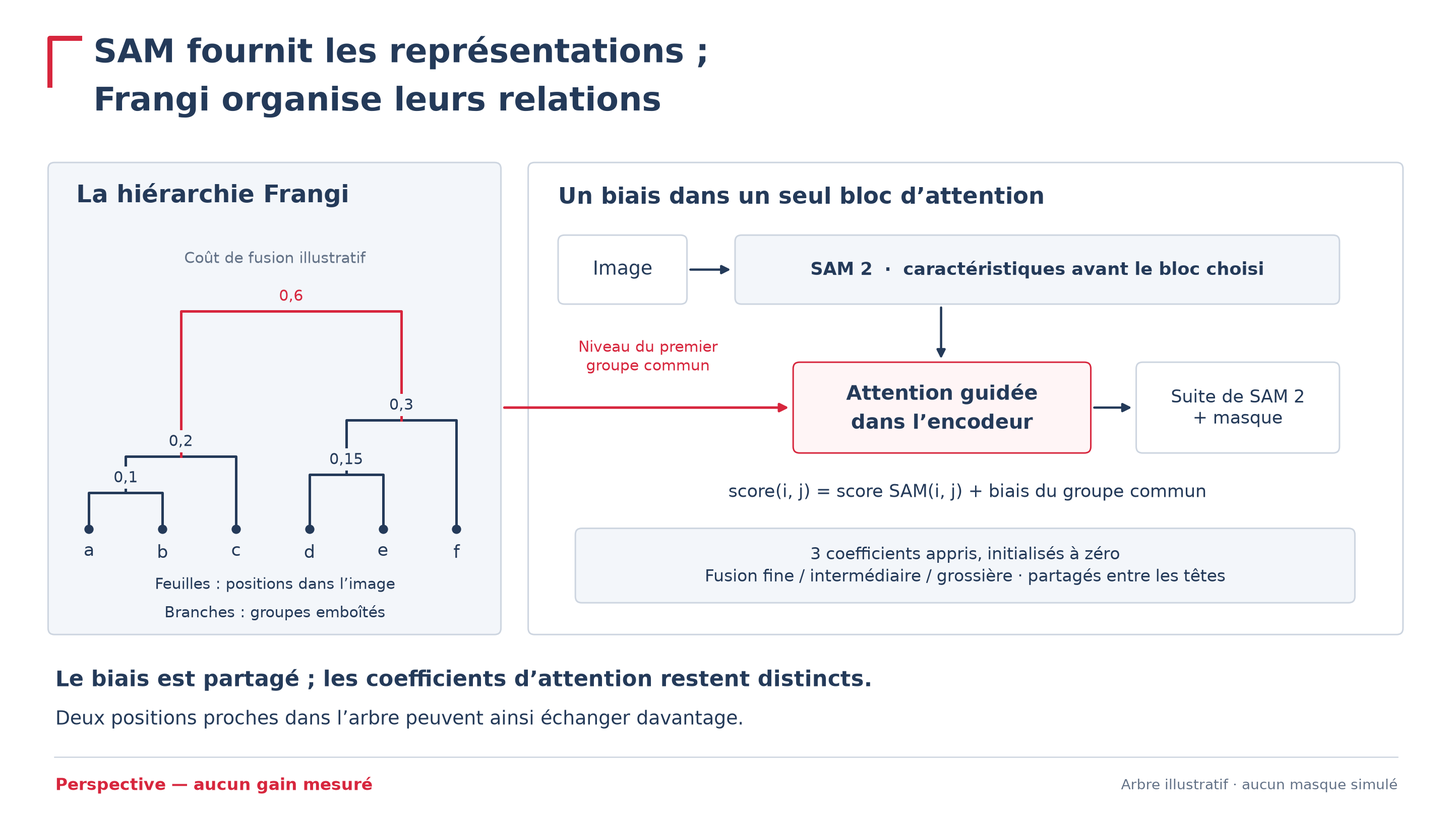
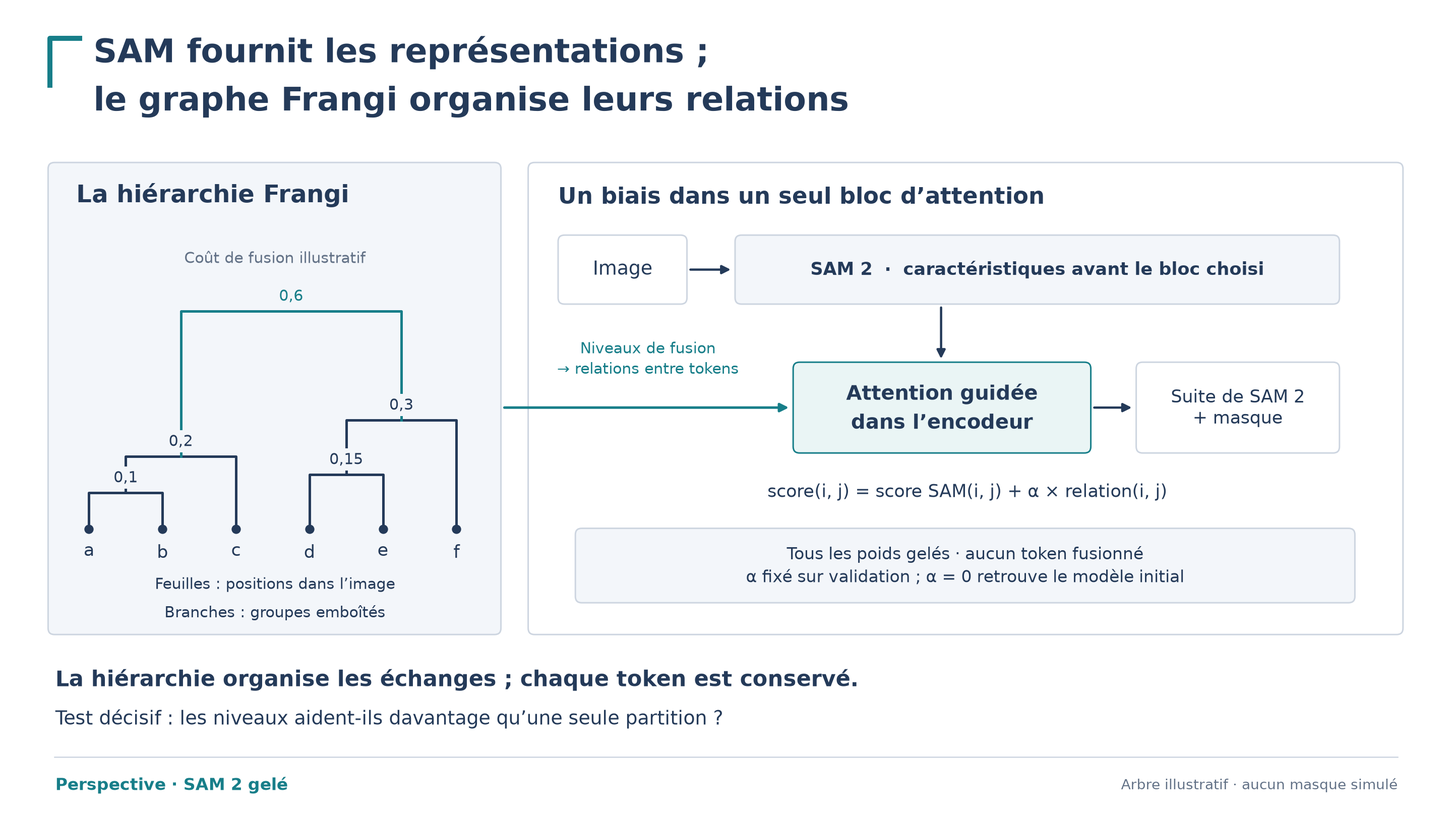
Étaye le guidage hiérarchique de SAM gelé et son lien avec la soutenance

diff --git a/ISPRS/CrackSAM-HierarchicalSelfAttention/figures/make_figure.py b/ISPRS/CrackSAM-HierarchicalSelfAttention/figures/make_figure.py
@@ -6,8 +6,8 @@ import matplotlib.pyplot as plt
 from matplotlib.patches import FancyArrowPatch, FancyBboxPatch
 
 OUT = Path(__file__).resolve().parent
-NAVY, RED, GRAY = "#243A59", "#D7263D", "#627186"
-PALE, PINK, LINE = "#F3F6FA", "#FFF5F6", "#CDD5E0"
+NAVY, ACCENT, GRAY = "#243A59", "#177E89", "#627186"
+PALE, TINT, LINE = "#F3F6FA", "#EAF5F5", "#CDD5E0"
 plt.rcParams.update({"font.family": "DejaVu Sans", "svg.fonttype": "none",
                      "svg.hashsalt": "frangi-hierarchy-perspective"})
 fig, ax = plt.subplots(figsize=(16, 9), dpi=180)
@@ -21,7 +21,7 @@ def text(x, y, s, size=15, color=NAVY, weight="normal", ha="center", **kw):
             ha=ha, va="center", linespacing=1.35, **kw)
 
 
-def box(x, y, w, h, s="", fill="white", edge=LINE, size=15, bold=False):
+def box(x, y, w, h, s="", fill="none", edge=LINE, size=15, bold=False):
     ax.add_patch(FancyBboxPatch((x, y), w, h, linewidth=1.2,
         boxstyle="round,pad=0.02,rounding_size=0.07", edgecolor=edge, facecolor=fill))
     text(x + w / 2, y + h / 2, s, size=size, weight="bold" if bold else "normal")
@@ -32,10 +32,10 @@ def arrow(a, b, color=NAVY, lw=1.8):
                                color=color, linewidth=lw))
 
 
-# Editorial heading matches the navy/red palette of the thesis presentation.
-ax.plot([.55, .55, .88], [8.06, 8.58, 8.58], color=RED, lw=4)
+# Navy and teal keep the perspective distinct without red blocks.
+ax.plot([.55, .55, .88], [8.06, 8.58, 8.58], color=ACCENT, lw=4)
 text(1.03, 8.42, "SAM fournit les représentations ;", 26, weight="bold", ha="left")
-text(1.03, 7.88, "Frangi organise leurs relations", 26, weight="bold", ha="left")
+text(1.03, 7.88, "le graphe Frangi organise leurs relations", 26, weight="bold", ha="left")
 
 box(.55, 2.03, 4.95, 5.16, fill=PALE)
 box(5.84, 2.03, 9.60, 5.16)
@@ -53,7 +53,7 @@ for node_id, (left, right, cost) in enumerate(merges, start=6):
     xl, yl = nodes[left]
     xr, yr = nodes[right]
     height = base + scale * cost
-    c = RED if cost == .60 else NAVY
+    c = ACCENT if cost == .60 else NAVY
     ax.plot([xl, xl, xr, xr], [yl, height, height, yr], color=c, lw=2)
     nodes[node_id] = ((xl + xr) / 2, height)
     text((xl + xr) / 2, height + .17, f"{cost:g}".replace(".", ","), 12, c,
@@ -71,32 +71,31 @@ arrow((7.58, 6.03), (8.08, 6.03))
 box(8.12, 5.67, 6.62, .72,
     "SAM 2  ·  caractéristiques avant le bloc choisi", size=14, fill=PALE, bold=True)
 arrow((10.37, 5.64), (10.37, 5.02))
-box(8.76, 4.03, 3.24, .96, "Attention guidée\ndans l’encodeur", fill=PINK, edge=RED,
+box(8.76, 4.03, 3.24, .96, "Attention guidée\ndans l’encodeur", fill=TINT, edge=ACCENT,
     size=16, bold=True)
 arrow((12.03, 4.51), (12.50, 4.51))
 box(12.54, 4.03, 2.20, .96, "Suite de SAM 2\n+ masque", size=14)
 
 # Explicit relation, not a point prompt: first shared group of each pair.
-arrow((5.53, 4.51), (8.72, 4.51), color=RED, lw=2)
-text(7.14, 5.06, "Niveau du premier\ngroupe commun", 12, RED,
-     bbox={"facecolor": "white", "edgecolor": "none", "pad": 2})
-text(10.66, 3.58, "score(i, j) = score SAM(i, j) + biais du groupe commun",
+arrow((5.53, 4.51), (8.72, 4.51), color=ACCENT, lw=2)
+text(7.14, 5.06, "Niveaux de fusion\n→ relations entre tokens", 12, ACCENT)
+text(10.66, 3.58, "score(i, j) = score SAM(i, j) + α × relation(i, j)",
      14, color=NAVY)
 box(6.36, 2.38, 8.55, .78,
-    "3 coefficients appris, initialisés à zéro\nFusion fine / intermédiaire / grossière · partagés entre les têtes",
+    "Tous les poids gelés · aucun token fusionné\nα fixé sur validation ; α = 0 retrouve le modèle initial",
     fill=PALE, edge=LINE, size=13)
 
-text(.61, 1.51, "Le biais est partagé ; les coefficients d’attention restent distincts.",
+text(.61, 1.51, "La hiérarchie organise les échanges ; chaque token est conservé.",
      17, weight="bold", ha="left")
-text(.61, 1.08, "Deux positions proches dans l’arbre peuvent ainsi échanger davantage.",
+text(.61, 1.08, "Test décisif : les niveaux aident-ils davantage qu’une seule partition ?",
      15, ha="left")
 ax.plot([.6, 15.4], [.66, .66], color=LINE, lw=1)
-text(.61, .35, "Perspective — aucun gain mesuré", 13, RED, weight="bold", ha="left")
+text(.61, .35, "Perspective · SAM 2 gelé", 13, ACCENT, weight="bold", ha="left")
 text(15.4, .35, "Arbre illustratif · aucun masque simulé", 11, GRAY, ha="right")
 for suffix in ("svg", "png"):
     destination = OUT / f"guidage_hierarchique.{suffix}"
     metadata = {"Date": None} if suffix == "svg" else None
-    fig.savefig(destination, facecolor="white", dpi=180, metadata=metadata)
+    fig.savefig(destination, transparent=True, dpi=180, metadata=metadata)
     if suffix == "svg":
         destination.write_text("\n".join(line.rstrip() for line in
                                destination.read_text().splitlines()) + "\n")

diff --git a/ISPRS/CrackSAM-HierarchicalSelfAttention/PISTES_SANS_REENTRAINEMENT.md b/ISPRS/CrackSAM-HierarchicalSelfAttention/PISTES_SANS_REENTRAINEMENT.md
@@ -1,68 +1,95 @@
-# Hiérarchie Frangi et modèles gelés : pistes comparées
+# Hiérarchie Frangi et SAM 2 gelé : quelles pistes retenir ?
 
-Recherche vérifiée le **5 septembre 2026**. Contrainte : conserver les poids de
-SAM 2, y compris son adaptation aux fissures lorsqu'elle existe. Les mécanismes
-ci-dessous ont des précédents ; leur combinaison avec notre hiérarchie reste
-une perspective.
+**Verdict : commencer par guider une attention de SAM 2 avec les relations multi-échelles du graphe Frangi (A).** Cette intervention répond directement à « guider SAM 2 », conserve ses tokens et ses poids et permet un retour au modèle initial. Un petit lecteur hiérarchique entraîné sur ses caractéristiques gelées (B) constituerait ensuite un programme plus proche de l’« alphabet–grammaire » de la thèse. HSA et la compression des clés/valeurs restent des comparateurs.
 
-## 1. HSA : partager les coefficients selon l'arbre
+Il s’agit de propositions : **aucune n’est implémentée ou mesurée ici**. Les poids de SAM 2, y compris une adaptation préalable aux fissures, resteraient gelés. La lecture s’appuie sur EUVIP et la [soutenance figée au commit `8ddbae760c5a337c4e033c45e5f60c16ca58cc67`](https://github.com/Ludwig-H/Manuscrit-de-th-se/blob/8ddbae760c5a337c4e033c45e5f60c16ca58cc67/Soutenance/soutenance/Soutenance_These_2026-09-08_LouisHauseux.pdf). Les pages ci-dessous désignent les pages PDF, puis les numéros imprimés des diapositives.
 
-[Amizadeh et al., NeurIPS 2025](https://arxiv.org/html/2509.15448v1#S4.SS3)
-remplacent certaines attentions de RoBERTa sans réentraînement. L'arbre fourni
-détermine quels coefficients sont partagés entre sous-groupes ; les
-caractéristiques du modèle déterminent leurs valeurs. Aucun paramètre ajouté.
+## Ce que la hiérarchie doit transmettre
 
-**Rapport à Frangi :** fournir notre arbre de fusions. C'est la référence la plus
-directe pour le poster. Les expériences publiées portent sur un compromis
-coût–précision, avec des pertes de précision ; elles ne démontrent pas une
-amélioration de segmentation. Le théorème suppose notamment des requêtes/clés
-normalisées : sa garantie ne se transfère pas automatiquement à Hiera.
+La soutenance distingue **construire tous les regroupements** et **choisir une segmentation** : composantes aux différents seuils, single linkage et MST (p. 18–23, diapos 15–16), puis dendrogramme et distance de fusion (p. 110, diapo 99). L’intérêt recherché est de conserver plusieurs niveaux et leurs événements, sans décider immédiatement quelle échelle représente une fissure.
 
-## 2. Regrouper les tokens : une autre intervention interne
+Pour EUVIP, repartir des [dissimilarités publiées](../../EUVIP/LaTeX/main.tex), issues des compatibilités de courbure, de forme et d’orientation : `d_ij = min(1, ρ_ij(1 − S⁰_ij))`. Fixer les candidats, les arêtes et leurs coûts, **avant sélection de la plus grande composante et élagage par centralité**, puis construire la filtration. Ce choix exploite une étape antérieure au squelette final du papier ; il ne prétend pas que celui-ci conserve déjà toute cette information.
 
-Trois travaux apportent des éléments complémentaires :
+Ne pas confondre **hauteur de fusion**, **centralité dans le MST** et **échelle gaussienne σ du Hessien**. Un arbre spatial enraciné au sommet le plus central n’est pas le dendrogramme des fusions. Les ex æquo ne doivent pas créer artificiellement des fusions binaires ordonnées.
 
-- **[ATC, Haurum et al., ECCV 2024](https://arxiv.org/html/2409.11923v1)** :
-  classification hiérarchique ascendante des tokens, sans paramètres nouveaux.
-  Évaluations avec et sans fine-tuning, dont segmentation avec ViT-Adapter.
-- **[CubistMerge, Gong et Lis, prépublication, v2 de 2026](https://arxiv.org/html/2509.21764v2)** :
-  fusion spatiale préservant une grille 2D, effectivement évaluée sur SAM 2
-  sans entraînement supplémentaire (§4–4.1). Ses groupes restent contraints
-  par les lignes, colonnes et fenêtres.
-- **[StructSAM, Nguyen et al., 2026](https://arxiv.org/html/2603.07307v2)** :
-  fusion → attention → restitution de la grille dense, avec protection des
-  contours, sur SAM/MedSAM/EfficientSAM gelés. SAM 2 est seulement un comparateur.
-  Version courte au workshop AdaptFM@ICML ; ne pas citer comme ICML principal.
+En **K2**, les feuilles sont des arêtes. L’exemple de la soutenance regroupe `AB, BC, AC` et `DE, EF, DF`, avec `CD` séparément ; les supports partagent C et D (p. 27–31, diapos 20–24). Imposer un parent unique à chaque pixel effacerait ce recouvrement. Les objets hiérarchisés et leur projection vers l’image sont distincts. Enfin, les résultats de densité HGP dans leur cadre géométrique ne deviennent pas automatiquement des théorèmes sur les coûts Frangi.
 
-**Notre piste :** les groupes Frangi autoriseraient ou interdiraient certaines
-fusions. Garder séparés les tokens ambigus, les bifurcations et les détails fins.
-Plusieurs coupes emboîtées organiseraient progressivement les regroupements.
-Restituer la grille ne récupère pas l'information perdue par une fusion.
-Ces articles visent surtout l'accélération ; un bénéfice sur les fissures reste
-une question distincte. ATC signale aussi les difficultés du single linkage
-lorsque les fusions deviennent agressives.
+## A — Ajouter une relation multi-échelle à l’attention
 
-## 3. CASS : transférer des relations vers l'attention gelée
+### Une relation définie par tous les seuils
 
-[Kim et al., CVPR 2025](https://arxiv.org/html/2411.17150v3#S3.SS2)
-transfèrent la structure spectrale d'un graphe DINO vers l'attention finale de
-CLIP, sans entraînement. **Rapport à Frangi :** transmettre des relations du
-graphe à un modèle gelé a donc un précédent visuel. Remplacer ces relations par
-notre hiérarchie demanderait une définition nouvelle ; CASS ne réalise pas
-déjà un guidage hiérarchique de SAM 2.
+Dans une composante du graphe fixé, la première fusion de deux candidats vérifie :
 
-## Choix pour la suite
+$$
+u_{ij}=\max_{e\in\operatorname{chemin}_{\mathrm{MST}}(i,j)} d_e.
+$$
 
-Conserver **HSA comme référence du poster**. Explorer le **regroupement guidé**
-comme alternative pratique : un bloc global, fusions prudentes, puis comparaison
-à nombre de tokens égal avec un regroupement visuel et un arbre permuté.
-Pour revendiquer l'apport de la hiérarchie, comparer aussi plusieurs niveaux à
-une partition unique. L'arbre provient des seuils du MST avant élagage, pas de
-la profondeur d'un parcours arbitrairement enraciné.
+Pour la hiérarchie K1 des composantes, définir :
 
-Si un petit apprentissage séparé est acceptable,
-[GraphAdapter, Li et al., NeurIPS 2023](https://arxiv.org/abs/2309.13625)
-offre un autre précédent : entraîner des modules de graphe sur les
-représentations d'un modèle gelé. Notre transposition utiliserait les
-caractéristiques SAM 2 sauvegardées et un petit module parcourant l'arbre,
-sans rétropropagation dans SAM 2. Elle ne serait pas entièrement sans apprentissage.
+$$
+\kappa_{ij}=\int_0^1 \mathbf{1}[i,j\text{ dans la même composante au seuil }t]\,dt
+=1-u_{ij}.
+$$
+
+Deux candidats réunis tôt partagent davantage de seuils. Poser `κ_ii = 1` et `κ_ij = 0` entre composantes déconnectées, sans inventer de connexion physique. Le MST préserve ces regroupements ; κ ne conserve pas toutes ses incidences géométriques ni les événements K≥2.
+
+Le **noyau κ complet est positif semi-défini** : chaque matrice de coappartenance à une partition l’est, ainsi que leur moyenne. C’est le principe des [noyaux de partitions de Davies et Ghahramani, 2014](https://mlg.eng.cam.ac.uk/pub/pdf/DavGha14a.pdf), appliqué ici aux seuils de notre filtration. Les coûts bornés sont empiriques, pas des probabilités. L’intégrale uniforme exploite leurs hauteurs numériques mais reste un choix à valider. Une transformation croissante des coûts peut conserver les fusions tout en changeant κ.
+
+### Passer des candidats aux tokens
+
+Construire une matrice `P` à poids non négatifs reliant chaque token aux candidats qu’il couvre. Normaliser chaque ligne non vide à somme un ; laisser les lignes vides nulles. Puis calculer :
+
+$$
+\kappa_{\mathrm{tok}}=P\kappa P^\top.
+$$
+
+Un token peut recevoir plusieurs contributions géométriques. Cette projection reste un **résumé** : un patch traversé par deux branches peut les mélanger. Mesurer couverture, mélanges de groupes et dépendance à la résolution. La normalisation ne distingue pas, à elle seule, un patch presque vide d’un patch fortement couvert.
+
+Pour K2, une incidence pondérée entre arêtes et pixels respecterait mieux les recouvrements qu’une affectation exclusive. Elle ne préserverait pas automatiquement orientations, événements et géométrie complète. Le premier essai doit annoncer clairement **K1**, sans revendiquer déjà la grammaire K2 des diapos 104–107.
+
+### Une modification bornée et réversible
+
+À partir de `κ_tok`, construire `B` en neutralisant sa diagonale et les interactions non couvertes. **B n’est plus nécessairement positif semi-défini** ; cette propriété n’est pas requise pour modifier des logits d’attention :
+
+$$
+A'=\operatorname{softmax}_{\text{lignes}}(L+\alpha B),
+\qquad L=QK^\top/\sqrt{d_h}.
+$$
+
+Partager B et un unique `α` entre les têtes, tout en conservant leurs scores visuels distincts. Choisir `0 ≤ α ≤ α_max` dans un intervalle annoncé, sur validation, avec `α = 0` comme référence obligatoire. Aucun gradient : cela reste un réglage expérimental.
+
+Commencer dans un seul bloc global, par exemple l’indice 43 de [Hiera-L](https://github.com/facebookresearch/sam2/blob/2b90b9f5ceec907a1c18123530e92e794ad901a4/sam2/configs/sam2/sam2_hiera_l.yaml), sans supprimer tokens, projections, résidus, MLP ou informations de position. Conserver prompts et décodeur identiques. **Hors graphe, le logit ajouté est nul, mais les probabilités peuvent changer par renormalisation** lorsqu’une requête reçoit d’autres corrections. Une matrice B partagée de 4096² éléments FP16 représente environ 32 Mio ; temps et mémoire supplémentaires dépendent aussi du backend d’attention et restent à mesurer.
+
+### Le précédent utile, et sa limite
+
+[CASS, CVPR 2025, §3.2](https://arxiv.org/html/2411.17150v3#S3.SS2), transfère une structure relationnelle issue de DINO vers CLIP sans entraînement : graphe construit avec les clés, correspondance spectrale entre têtes, puis transfert de composantes spectrales. Il établit un précédent de **transfert de relations vers une attention visuelle gelée**, sans traiter une hiérarchie visuelle externe ni SAM 2. Nous ne reprenons ni son `KKᵀ` comme définition Frangi, ni les suppressions de résidu/FFN propres à sa configuration CLIP. Le biais fondé sur κ est notre hypothèse à évaluer.
+
+## Trois objections à A, et les expériences décisives
+
+1. **Une liaison fausse devient transitive.** Une arête trop favorable peut rapprocher deux structures entières. Les grandes composantes peuvent aussi attirer beaucoup de masse d’attention. Mesurer faux raccords, ruptures et détails fins, en complément de l’IoU.
+2. **La projection peut détruire la distinction recherchée.** Des branches distinctes peuvent occuper le même patch. Rapporter les ambiguïtés et comparer sur un support de candidats identique ; davantage de pixels couverts ne prouverait pas l’utilité de l’arbre.
+3. **Le modèle n’a pas appris à interpréter ce signal.** En monomodal, Frangi réorganise une observation déjà accessible à SAM ; une observation supplémentaire peut venir du multimodal. Ni complémentarité ni bon placement du biais ne sont acquis. Si `α = 0` gagne, conserver ce résultat.
+
+Contrôler chaque explication : bonus uniforme sur le **masque plat de candidats** ; **adjacence locale** ; **partition unique** ; arbre construit sur les caractéristiques visuelles ou la proximité spatiale ; puis hiérarchie Frangi complète. Comparer les hauteurs originales à des hauteurs canoniques conservant seulement la topologie, ainsi que des associations feuilles–arbre permutées. Pour les niveaux permutés, préserver la monotonie parent–enfant : une permutation naïve ne définit plus une filtration valide.
+
+Ces tests prolongent les témoins de la p. 118, diapo 107 : graphe latéral, arbre aléatoire, niveaux permutés, topologie seule et trajectoires complètes. Conserver mêmes images, prompts, budget de calcul et budget de recherche de `α`, puis évaluer sur un test séparé. Compter construction du graphe, projection, mémoire et temps total ; aucune accélération n’est acquise.
+
+## B — Apprendre une petite grammaire sur des représentations gelées
+
+[Superpoint Transformer, ICCV 2023](https://openaccess.thecvf.com/content/ICCV2023/papers/Robert_Efficient_3D_Semantic_Segmentation_with_Superpoint_Transformer_ICCV_2023_paper.pdf), utilise une véritable hiérarchie géométrique externe et des voisinages à plusieurs niveaux. Son module est **entraîné** pour la segmentation 3D. Ses partitions initiales limitent les frontières restituables ; sa compacité ne garantit pas celle d’une transposition à nos images.
+
+Notre adaptation mettrait en cache les caractéristiques de SAM 2, sans graphe de gradients. Un petit lecteur apprendrait les échanges entre éléments Frangi, groupes et ensembles, avec orientations, niveaux et événements ; une voie fine conserverait les caractéristiques détaillées pour produire le masque. Aucun gradient ne traverserait SAM. Cette piste concrétise davantage l’« alphabet–grammaire » des diapos 58–59 et 104–107. [GraphAdapter, NeurIPS 2023](https://arxiv.org/abs/2309.13625), est un précédent plus général : des convolutions apprises sur des graphes de connaissances entre classes, sans cette hiérarchie géométrique.
+
+**Trois objections :** il faut des annotations et entraîner un nouveau module ; une sortie indépendante constitue un lecteur sur SAM, pas un guidage de ses attentions ; des groupes erronés et une projection grossière peuvent encore limiter les détails. Comparer le même lecteur avec caractéristiques seules, graphe local et véritable hiérarchie. Un gain dû au module supplémentaire ne validerait pas la grammaire.
+
+## HSA et compression : des comparateurs
+
+[HSA, NeurIPS 2025, §§3.2 et 5.3](https://proceedings.neurips.cc/paper_files/paper/2025/file/0480adaf62a918405a5e3b1031e0c056-Paper-Conference.pdf), partage des coefficients entre sous-arbres frères. Il conserve les feuilles mais peut supprimer leurs différences d’interaction ; il ne renforce pas automatiquement les bonnes connexions. Les remplacements sans entraînement concernent RoBERTa : au tableau 3, l’exactitude passe de 95,58 à 94,94 % sur IMDB, mais de 92,67 à 50,72 % sur QNLI. La normalisation Q/K et le traitement de la diagonale de sa preuve ne correspondent pas directement à SAM 2. Les hauteurs Frangi ne sont pas automatiquement utilisées. C’est un comparateur de contrainte hiérarchique, avec ces écarts explicités.
+
+[ATC, ECCV 2024](https://www.ecva.net/papers/eccv_2024/papers_ECCV/papers/07441.pdf), construit des regroupements hiérarchiques mais exploite une coupe ; [CubistMerge, prépublication, v2 de 2026](https://arxiv.org/pdf/2509.21764v2), évalue effectivement des fusions sur SAM 2 gelé. Les regroupements de ce dernier suivent toutefois une grille, peu adaptée aux branches irrégulières de Frangi. Ces précédents visent d’abord le coût.
+
+[StructSAM, v2 de 2026](https://arxiv.org/pdf/2603.07307v2), propose fusion → attention → restitution, avec un résidu dense préservé. Les différences entrantes subsistent, mais les membres d’un groupe partagent leur mise à jour d’attention. Ses évaluations portent sur SAM, MedSAM et EfficientSAM ; SAM 2 est un comparateur. Il protège les contours sans fournir de hiérarchie métier. Sa version courte relève du workshop AdaptFM@ICML, pas de la conférence principale. Pour les fissures, **appartenir à une même branche ne signifie pas posséder des caractéristiques interchangeables** : extrémités, jonctions et changements de matériau peuvent demander des échanges distincts.
+
+Une variante prudente conserverait toutes les requêtes et le résidu dense, mais résumerait les clés/valeurs par groupes disjoints, avec la correction de masse `log(taille)` également utilisée par [ToMe, ICLR 2023](https://arxiv.org/abs/2210.09461). Elle serait exacte pour des clés identiques dans chaque groupe, approximative sinon. Une coupe ne testerait pas toute la hiérarchie ; mélanger parents et enfants compterait certains éléments plusieurs fois. Pour garder plusieurs niveaux, il faudrait des coupes emboîtées ou une couverture de l’arbre adaptée à chaque requête. A conserve aussi les clés/valeurs individuelles et évite cette approximation.
+
+**Priorité : A pour tester le guidage ; B pour développer la grammaire.** Les contrôles devront montrer ce qu’apportent relations et niveaux au-delà du seul détecteur Frangi.

diff --git a/ISPRS/CrackSAM-HierarchicalSelfAttention/README.md b/ISPRS/CrackSAM-HierarchicalSelfAttention/README.md
@@ -1,62 +1,33 @@
-# Donner à SAM 2 la hiérarchie du graphe de Frangi
+# Guider SAM 2 avec les relations de la hiérarchie Frangi
 
-**Perspective de recherche pour la soutenance — aucun gain de segmentation démontré.**
+**Perspective : conserver SAM 2 gelé et tester une organisation explicite de ses échanges.** La [comparaison des pistes](PISTES_SANS_REENTRAINEMENT.md) explique le choix au regard du papier EUVIP, de la soutenance et des articles vérifiés le 5 septembre 2026.
 
-SAM possède déjà de riches représentations visuelles. Notre proposition est de lui transmettre **quels morceaux se regroupent, et à quel niveau**, pour moduler leurs échanges dans l’attention.
+## Le choix pour EUVIP
 
-Lire d’abord les [résultats négatifs et les recherches associées](RECHERCHES.md), puis les [formulations pour la soutenance](SOUTENANCE.md).
+Conserver chaque token et ses caractéristiques. Utiliser la hiérarchie pour indiquer **à quel niveau deux régions se réunissent**, puis moduler leur attention. Cette expérience ne suppose pas que Frangi segmente mieux que SAM. En monomodal, la hiérarchie organise des observations déjà disponibles ; une modalité supplémentaire peut aussi apporter une observation nouvelle.
 
-Pour la contrainte **sans réentraînement de SAM 2**, consulter les
-[pistes comparées](PISTES_SANS_REENTRAINEMENT.md) : HSA, regroupement hiérarchique
-de tokens et transfert de relations. Le montage à trois coefficients ci-dessous
-reste une variante avec apprentissage limité.
+![Principe du guidage](figures/guidage_hierarchique.png)
 
-![Principe du guidage hiérarchique](figures/guidage_hierarchique.png)
+## Du graphe à une relation entre régions
 
-## Ce que nous voulons ajouter
+Reprendre les dissimilarités `d_ij` du papier. Sur un graphe fixé, avant sélection de la plus grande composante et élagage par centralité, faire varier le seuil des arêtes. Les composantes fusionnent : on conserve ces événements et leurs niveaux. Le MST de chaque composante suffit à les retrouver.
 
-Une carte de gradient ou de Frangi décrit chaque emplacement. Une hiérarchie décrit les relations entre emplacements : deux morceaux peuvent appartenir au même petit groupe, à deux sous-groupes d’un même ensemble, ou à des ensembles distincts.
+Dans une même composante, `u_ij` est le plus grand coût sur le chemin du MST entre deux sommets. La relation `κ_ij = 1 − u_ij` mesure la fraction des seuils de `[0,1]` auxquels ils appartiennent au même groupe ; elle vaut zéro entre composantes séparées. Elle exploite toute la filtration. La profondeur d’un parcours et les échelles gaussiennes ne définissent pas cette hiérarchie.
 
-Cette organisation est précisément ce que les essais GeoLoRA n’ont pas transmis. En monomodal, elle reste calculée à partir de la même image : nous proposons une **organisation explicite du calcul**, sans prétendre apporter une observation supplémentaire ni une vérité sur les fissures.
+## Un premier essai sans apprentissage
 
-## Construire la bonne hiérarchie
-
-Commencer avec le graphe ordinaire, **K = 1**, et ses dissimilarités Frangi. Fixer une fois les pixels candidats, les arêtes et leurs poids. Sur chaque composante, conserver l’arbre couvrant minimum **avant l’élagage final par centralité**.
-
-Faire ensuite varier le seuil des coûts d’arêtes : les petits groupes fusionnent progressivement. Enregistrer ces fusions donne un dendrogramme, c’est-à-dire un arbre de groupes emboîtés. C’est le lien classique entre arbre couvrant et Single-Linkage, déjà présent dans le fil de la thèse. Les fusions de même coût sont simultanées ; aucune racine de parcours arbitraire ne définit les niveaux.
-
-Pour deux feuilles, leur niveau de réunion est le plus grand coût sur le chemin qui les relie dans l’arbre. **La centralité est un score ; elle n’est pas cette hiérarchie.** Les composantes séparées restent séparées. L’extension triangle-connexe viendra ensuite, avec sa propre définition des feuilles et des fusions.
-
-## La transmettre directement à l’attention
-
-Pour deux positions d’image représentées par les jetons `i` et `j`, noter `r(i,j)` le niveau de leur premier groupe commun. Ajouter au score visuel un coefficient appris dépendant de ce niveau :
+Reporter ces relations sur les tokens, puis ajouter un biais borné au score visuel :
 
 $$
-\operatorname{Attention}_T(Q,K,V)
-=\operatorname{softmax}_j\!\left(
-\frac{q_i^\top k_j}{\sqrt d}+b_{r(i,j)}
-\right)V.
+A' = \operatorname{softmax}(QK^\top/\sqrt{d_h} + \alpha B).
 $$
 
-**Version minimale : trois classes de niveaux de fusion, trois coefficients appris**, partagés entre les têtes d’un seul bloc. Les seuils de ces classes sont fixés sur l’entraînement/validation. L’arbre complet est conservé ; cette première interface en donne une lecture simplifiée.
+`B` est la relation projetée, avec diagonale neutralisée. Les poids de SAM et de son adaptation aux fissures restent gelés ; `α` est choisi sur validation, avec `α = 0` comme référence. Un bloc global de Hiera-L, par exemple le bloc 43, permet une intervention initiale sans modifier la grille. La projection des candidats vers les tokens et les faux raccordements du graphe sont les principaux risques.
 
-Les coefficients commencent à zéro : on retrouve alors le modèle de référence. Chaque paire conserve son propre score visuel, même lorsqu’elle partage un biais avec d’autres. Le modèle peut apprendre à renforcer, atténuer ou ignorer la relation proposée.
+[CASS, CVPR 2025](https://arxiv.org/html/2411.17150v3) fournit un précédent de transfert de relations vers une attention visuelle gelée. **La hiérarchie Frangi dans SAM 2 est notre proposition**, pas un résultat de cet article. Comparer impérativement au même support de candidats, à une partition unique, au graphe local et à des arbres témoins.
 
-### Un premier montage concret
+## La suite vers la soutenance
 
-- Garder les poids de SAM 2 **et de son adaptation aux fissures existante** gelés ; apprendre seulement les trois coefficients, avec la même perte et les mêmes entrées que la référence.
-- Intervenir dans le dernier bloc d’attention globale de Hiera-L : `trunk.blocks[43].attn` dans la configuration vérifiée. Pour une entrée 1024², il traite une grille 64².
-- Reporter les groupes sur cette grille avec exactement les mêmes transformations spatiales que l’image. Un jeton reçoit l’appartenance d’un représentant Frangi ; s’il mélange des branches incompatibles, le déclarer ambigu.
-- Mettre le biais à zéro sur la diagonale et pour toute paire impliquant un jeton ambigu, hors graphe ou une autre composante. Le contexte visuel reste accessible.
+Un petit lecteur hiérarchique inspiré de [Superpoint Transformer, ICCV 2023](https://arxiv.org/abs/2306.08045), entraîné sur les caractéristiques SAM sauvegardées, prolongerait davantage l’idée « alphabet–grammaire ». Il demanderait un apprentissage nouveau, sans rétropropagation dans SAM.
 
-Il faut exporter l’arbre depuis l’extracteur actuel, qui rend surtout des cartes, puis modifier l’attention et utiliser un parcours d’entraînement différentiable. Le prédicteur interactif standard désactive les gradients. **Trois paramètres ne signifient pas un calcul gratuit** : le biais dense partagé occupe déjà 32 Mio en FP16 à 4096 jetons, hors gradients et autres tenseurs. Ce montage reste à implémenter.
-
-## Le test qui rendrait l’idée convaincante
-
-Comparer la référence, une seule partition, la hiérarchie Frangi, un arbre spatial sur les mêmes feuilles et le même arbre Frangi aux feuilles permutées. Pour les variantes structurées, conserver architecture, table de coefficients et budget. Permuter uniquement l’association arbre–positions au sein de chaque composante, en conservant couverture et ambiguïtés ; l’image reste fixe.
-
-Mesurer sur les mêmes images l’IoU, la continuité et les faux raccordements, avec plusieurs graines, des intervalles sur les écarts appariés et un test séparé par scène. Un gain face à la partition et aux arbres témoins soutiendrait l’apport des regroupements emboîtés. Un gain face à SAM seul ne suffirait pas.
-
-Les points faibles sont identifiés : mauvais raccordements du graphe, branches absentes, perte de détails sur la grille des jetons. La hiérarchie propose des relations ; elle ne garantit pas leur justesse.
-
-Le [schéma vectoriel](figures/guidage_hierarchique.svg) se régénère avec `python figures/make_figure.py` depuis ce dossier (Matplotlib). L’ancien dossier reste consultable dans [l’historique Git](https://github.com/Ludwig-H/Generalized-Frangi-for-Automatic-Crack-Extraction-on-FIND-dataset/tree/e1dcec669b8ec216733c37335f7a57e0176967e5/ISPRS/CrackSAM-HierarchicalSelfAttention).
+Les [formulations pour la soutenance](SOUTENANCE.md) résument cette distinction. Les [résultats négatifs](RECHERCHES.md) restent documentés. Le montage est à implémenter ; aucun gain n’a été mesuré. Le schéma vectoriel se régénère avec `python figures/make_figure.py` depuis ce dossier.

diff --git a/ISPRS/CrackSAM-HierarchicalSelfAttention/SOUTENANCE.md b/ISPRS/CrackSAM-HierarchicalSelfAttention/SOUTENANCE.md
@@ -1,43 +1,34 @@
-# Une perspective en deux diapositives
+# Perspective : donner une organisation aux représentations de SAM
 
-## 1 — SAM voit déjà les détails ; donnons-lui leur organisation
+## Une diapositive pour EUVIP
 
-**À afficher**
+**Titre : « Perspective — guider SAM gelé par une hiérarchie de relations »**
 
-- Nos essais : ajouter des cartes de Frangi, d’orientation et de dérivées n’apporte pas de gain convaincant.
-- Une autre information explicite : quels morceaux appartiennent aux mêmes groupes, du détail à l’ensemble.
-- La hiérarchie du graphe peut guider les échanges entre les représentations visuelles de SAM 2.
+![Principe du guidage](figures/guidage_hierarchique.png)
 
-**À dire — environ 40 secondes**
+À afficher :
 
-> Nos premiers essais suggèrent que rajouter des descripteurs visuels n’est pas la bonne voie. SAM dispose déjà de représentations très riches. Ce que nous proposons maintenant, c’est de lui donner une organisation : quels morceaux se regroupent, et à quel niveau. L’arbre couvrant du graphe Frangi permet de retrouver cette succession de regroupements. Nous passons ainsi d’une description locale de l’image à une structure qui peut organiser les échanges dans le modèle.
+- SAM fournit les représentations visuelles.
+- Le graphe Frangi fournit les groupes et leurs niveaux de fusion.
+- Ces relations modulent l’attention ; chaque token est conservé.
+- Premier test : aucun apprentissage, un seul bloc modifié.
 
-Cette diapositive prolonge la page PDF **64** (numéro affiché **55**). Pour rester défendable, remplacer « SAM a déjà tout vu » par **« Dans nos essais, les descripteurs ajoutés n’apportent pas de gain convaincant »**. Réserver les limites du protocole aux questions du jury ; elles sont documentées dans [RECHERCHES.md](RECHERCHES.md).
+À dire, environ 40 secondes :
 
-## 2 — La hiérarchie module l’attention
+> Notre graphe ne doit pas produire un meilleur masque que SAM pour être utile. Nous proposons d’exploiter la succession de ses regroupements : quels fragments se réunissent tôt, lesquels seulement plus tard. Cette relation pourrait orienter les échanges entre les représentations de SAM, sans modifier ses poids ni fusionner ses tokens. CASS montre qu’un transfert de relations vers une attention visuelle gelée est possible ; l’emploi de notre hiérarchie dans SAM reste à tester.
 
-**À afficher**
+Référence technique : [Kim et al., CASS, CVPR 2025](https://arxiv.org/html/2411.17150v3). L’article transfère un graphe DINO vers CLIP ; il ne valide pas déjà notre combinaison.
 
-![Schéma de la perspective](figures/guidage_hierarchique.png)
+## Le lien avec le programme hiérarchique de la thèse
 
-- Deux régions se retrouvent dans un groupe commun : son niveau fournit un biais à l’attention.
-- Premier essai : un seul bloc modifié, trois coefficients appris, initialisés à zéro.
-- Question décisive : la hiérarchie Frangi aide-t-elle davantage qu’une seule partition ou un arbre témoin ?
+La diapositive **59** présente l’alphabet et la grammaire ; les **104–107** précisent les unités, leurs recollements, leurs niveaux et les contrôles. Le premier essai EUVIP traduit seulement une partie de ce programme : la filtration des connexions du graphe ordinaire.
 
-**À dire — environ 45 secondes**
+Pour aller plus loin : **SAM gelé → caractéristiques sauvegardées → petit lecteur de la hiérarchie → prédiction fine**. [Superpoint Transformer, Robert et al., ICCV 2023](https://arxiv.org/abs/2306.08045) est ici une référence plus directe : une hiérarchie géométrique organise un Transformer. Ce lecteur serait appris séparément ; SAM servirait d’extracteur gelé.
 
-> Pour chaque paire de régions, on regarde à quel niveau elles se réunissent dans l’arbre. On utilise cette relation pour moduler le score d’attention que SAM calcule déjà. Chaque paire conserve son propre score visuel ; le modèle apprend à y ajouter la préférence hiérarchique. Le premier essai peut être très limité, avec trois coefficients dans un seul bloc. Pour être convaincant, il faudra montrer que les vrais regroupements apportent davantage qu’une partition unique ou qu’un arbre dont on a mélangé les feuilles. Aujourd’hui, c’est une perspective, pas un gain acquis.
+## Deux réponses au jury
 
-Cette diapositive peut remplacer la page PDF **65** (numéro **56**). Le [SVG](figures/guidage_hierarchique.svg) est réutilisable dans la présentation.
+**« Est-ce vraiment la hiérarchie qui aide ? »** Comparer au même ensemble de candidats sans niveaux, au graphe local, à une seule partition et à des arbres témoins. SAM seul ne suffit pas comme contrôle.
 
-## Trois réponses courtes pour le jury
+**« Cela réalise-t-il déjà le programme des K-polyèdres ? »** Le premier montage porte sur le graphe ordinaire. À K ≥ 2, la hiérarchie regroupe des arêtes ou facettes dont les supports peuvent se recouvrir ; une affectation exclusive des pixels ne la représente pas correctement.
 
-**« SAM n’a-t-il pas déjà une hiérarchie ? »** Hiera organise plusieurs résolutions. Ici, les groupes dépendent de l’image et des relations du graphe Frangi. Leur intérêt supplémentaire reste à mesurer.
-
-**« Frangi doit-il mieux segmenter que SAM ? »** Le pari porte sur l’utilité de certaines relations entre régions. Il n’exige pas que le masque Frangi soit meilleur. Des relations erronées peuvent cependant nuire.
-
-**« Pourquoi ne pas remplacer l’attention par HSA ? »** HSA est une possibilité plus contraignante. Le biais additif permet un premier test ciblé et retrouve le modèle initial lorsque ses coefficients sont nuls. Cela ne réfute pas HSA.
-
-## Alléger les diapositives de secours
-
-La page PDF **111** peut conserver l’explication de SAM, en déplaçant l’entrée hiérarchique vers l’attention de l’encodeur. Remplacer **112–114 et 119** par le montage et les contrôles du [README](README.md). Les anciennes mesures sur arbres synthétiques ne justifient ni une impossibilité générale, ni un plafond de segmentation. Un essai utilisant la vérité terrain resterait un diagnostic d’interface, pas une borne universelle.
+Les mécanismes et les limites de HSA, des fusions de tokens et de ces deux voies sont détaillés dans la [comparaison](PISTES_SANS_REENTRAINEMENT.md).
